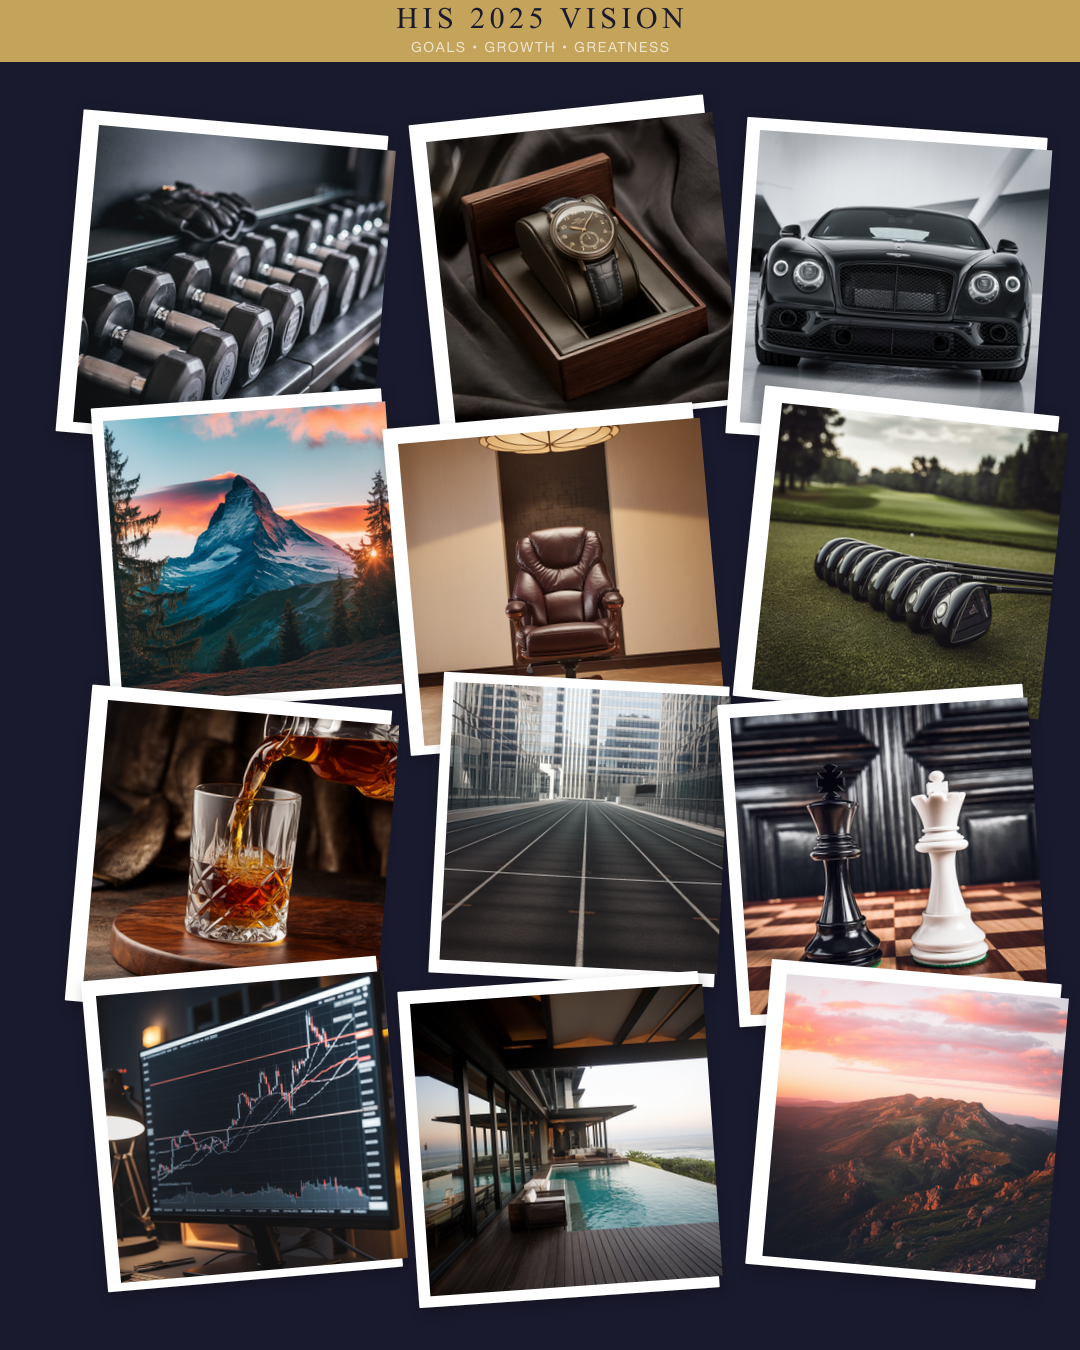
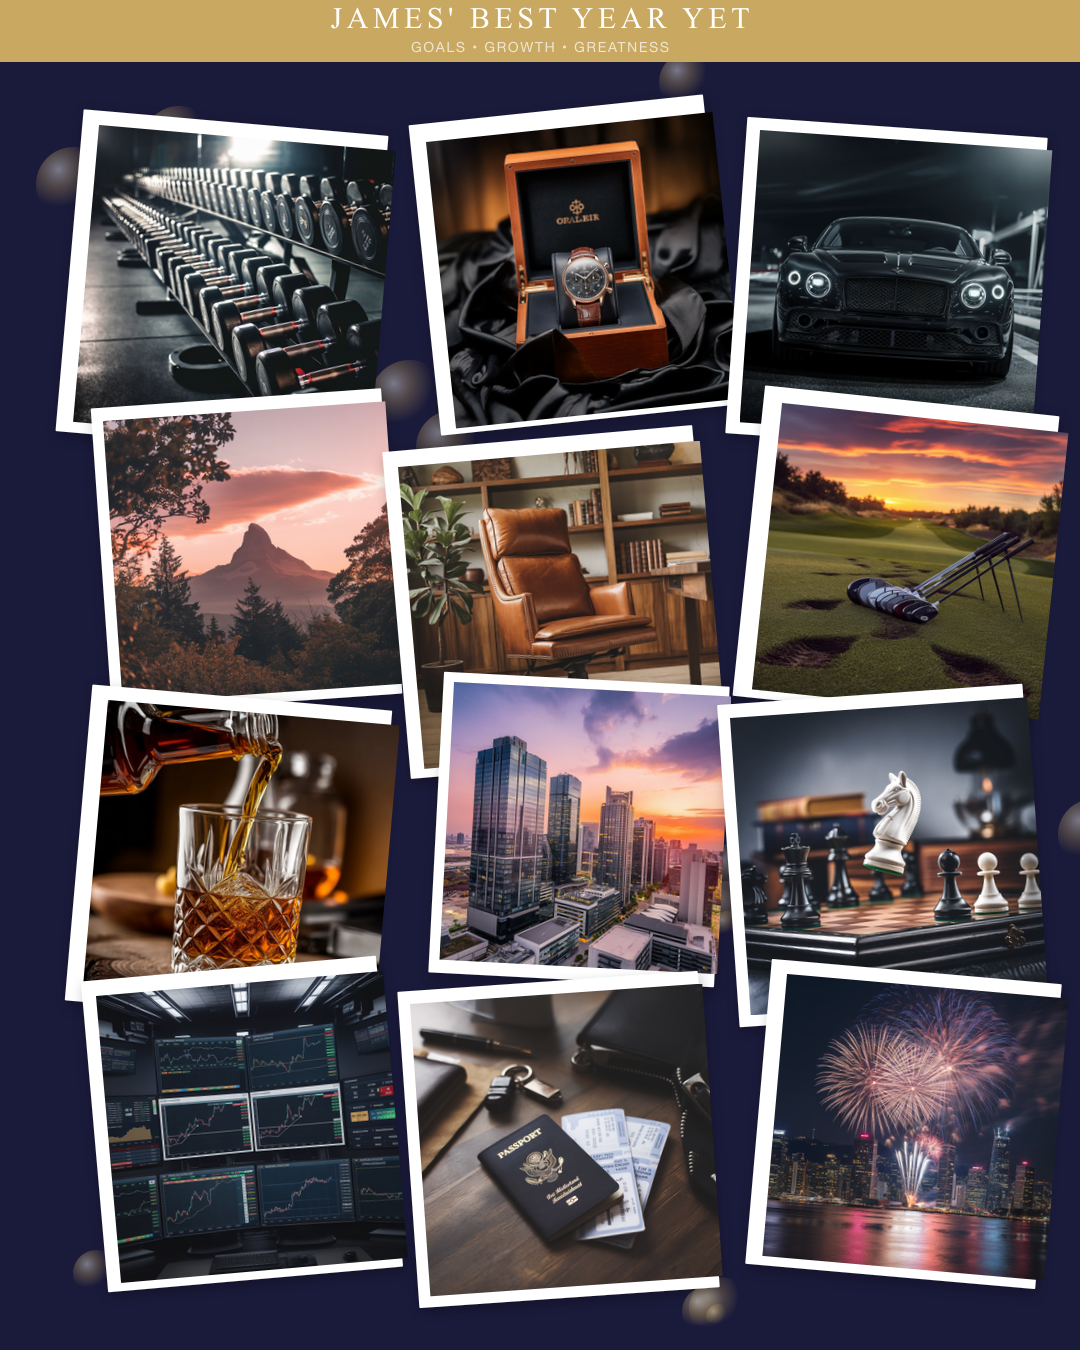
Regenerate demo vision boards with personalized titles
- James' Best Year Yet (male - navy/gold theme)
- Sarah's Dream Year (female - pink theme)
- Alex's 2025 Vision (neutral - warm cream theme)

Titles are now baked into the PNG images via V12 engine.
Cost: $0.90 total (~$0.30 per board)

🤖 Generated with [Claude Code](https://claude.com/claude-code)

diff --git a/scripts/regenerateDemoVisionBoards.js b/scripts/regenerateDemoVisionBoards.js
@@ -1,0 +1,159 @@
+/**
+ * Regenerate Demo Vision Boards with Personalized Titles
+ *
+ * Creates 3 sample boards for the demo-lessons page:
+ * 1. James's Best Year Yet (male-focused, navy/gold theme)
+ * 2. Sarah's Dream Year (female-focused, pink theme)
+ * 3. Alex's 2025 Vision (neutral New Year theme)
+ */
+
+require('dotenv').config();
+const path = require('path');
+
+// Import the vision board engine
+const { generateVisionBoard } = require('../src/lib/visionBoardEngineV12');
+
+const DEMO_BOARDS = [
+  {
+    id: 'male',
+    title: "JAMES' BEST YEAR YET",
+    subtitle: "GOALS • GROWTH • GREATNESS",
+    outputFile: 'sample-vision-board-male.png',
+    colors: {
+      background: '#1a1a3a',  // Dark navy
+      banner: '#c9a962',       // Gold
+      bannerText: '#ffffff',
+      bannerSubtext: 'rgba(255,255,255,0.7)',
+      accents: ['#c9a962', '#3a5a8a', '#2a4a7a', '#4a6a9a']
+    },
+    style: { mood: 'masculine dark discipline' },
+    photos: [
+      "rows of dumbbells in gym, dramatic lighting, fitness equipment",
+      "luxury watch in wooden box on dark silk fabric",
+      "sleek black luxury sports car front view, dramatic lighting",
+      "mountain peak at golden hour, epic landscape photography",
+      "leather executive chair in home office, masculine decor",
+      "golf clubs on pristine green course at sunset",
+      "whiskey being poured into crystal glass, amber liquid, dramatic lighting",
+      "modern city skyline at dusk, architectural photography",
+      "chess pieces on board, dramatic lighting, strategy concept",
+      "stock market charts on multiple screens, green numbers",
+      "passport with airplane tickets on wooden desk, travel concept",
+      "fireworks display over city skyline at night"
+    ]
+  },
+  {
+    id: 'female',
+    title: "SARAH'S DREAM YEAR",
+    subtitle: "LOVE • DREAM • SHINE",
+    outputFile: 'sample-vision-board-female.png',
+    colors: {
+      background: '#fdf2f4',  // Light pink
+      banner: '#d4a5a5',       // Dusty rose
+      bannerText: '#8b5a5a',
+      bannerSubtext: 'rgba(139,90,90,0.7)',
+      accents: ['#FFB6C1', '#E8D4F0', '#FFEAA7', '#B4E4FF']
+    },
+    style: { mood: 'feminine dreamy romantic' },
+    photos: [
+      "bouquet of pink peonies in soft natural light, romantic",
+      "rose-shaped bath bombs and candles, spa aesthetic",
+      "designer handbag on marble surface, luxury fashion",
+      "cozy pink blanket with tea cup, hygge aesthetic",
+      "delicate lace fabric texture, soft feminine aesthetic",
+      "champagne and macarons, celebration concept",
+      "ocean sunset with pink and purple sky",
+      "vintage passport on world map, travel planning",
+      "fresh flowers in vase by window, home decor",
+      "candles lit for meditation, peaceful spa setting",
+      "cozy reading nook with books and blankets",
+      "gold jewelry and earrings on marble surface"
+    ]
+  },
+  {
+    id: 'newyear',
+    title: "ALEX'S 2025 VISION",
+    subtitle: "MY YEAR • MY GOALS • MY LIFE",
+    outputFile: 'sample-vision-board-newyear.png',
+    colors: {
+      background: '#f5f0e8',  // Warm cream
+      banner: '#b8956e',       // Warm gold
+      bannerText: '#4a4a4a',
+      bannerSubtext: 'rgba(74,74,74,0.7)',
+      accents: ['#FFE4B5', '#B4E4FF', '#E8D4F0', '#98D8C8']
+    },
+    style: { mood: 'warm inspiring hopeful' },
+    photos: [
+      "champagne glasses clinking with confetti, New Year celebration",
+      "open planner notebook with goals written, fresh start",
+      "fresh fruit smoothie bowl, healthy lifestyle",
+      "vintage suitcase with globe, adventure travel concept",
+      "yoga mat and water bottle, fitness wellness",
+      "family dinner table set beautifully, togetherness",
+      "graduation cap and diploma, achievement success",
+      "cozy living room with fireplace, home comfort",
+      "garden with blooming flowers, growth abundance",
+      "gratitude journal with pen, mindfulness",
+      "sunrise through window, new beginnings",
+      "sparklers celebration at night, joy happiness"
+    ]
+  }
+];
+
+async function generateDemoBoards() {
+  console.log('\n======================================================================');
+  console.log('   DEMO VISION BOARD GENERATOR');
+  console.log('   Regenerating boards with personalized titles');
+  console.log('======================================================================\n');
+
+  const results = [];
+  let totalCost = 0;
+
+  for (const board of DEMO_BOARDS) {
+    console.log(`\n============================================================`);
+    console.log(`Generating: ${board.id} - "${board.title}"`);
+    console.log(`============================================================\n`);
+
+    try {
+      const result = await generateVisionBoard({
+        title: board.title,
+        subtitle: board.subtitle,
+        colors: board.colors,
+        style: board.style,
+        photos: board.photos
+      });
+
+      if (result && result.filepath) {
+        // Copy to public/demos folder
+        const fs = require('fs');
+        const destPath = path.join(__dirname, '../public/demos', board.outputFile);
+        fs.copyFileSync(result.filepath, destPath);
+
+        console.log(`✅ Saved to: ${destPath}`);
+        console.log(`   Cost: $${result.cost || 0.30}`);
+
+        totalCost += result.cost || 0.30;
+        results.push({ id: board.id, success: true, path: destPath });
+      }
+    } catch (error) {
+      console.error(`❌ Failed to generate ${board.id}:`, error.message);
+      results.push({ id: board.id, success: false, error: error.message });
+    }
+  }
+
+  console.log('\n======================================================================');
+  console.log('   GENERATION COMPLETE');
+  console.log('======================================================================');
+  console.log(`Total boards: ${DEMO_BOARDS.length}`);
+  console.log(`Successful: ${results.filter(r => r.success).length}`);
+  console.log(`Failed: ${results.filter(r => !r.success).length}`);
+  console.log(`Total cost: $${totalCost.toFixed(2)}`);
+  console.log('\nOutput files:');
+  results.forEach(r => {
+    console.log(`  ${r.success ? '✅' : '❌'} ${r.path || r.error}`);
+  });
+  console.log('');
+}
+
+// Run the generator
+generateDemoBoards().catch(console.error);
